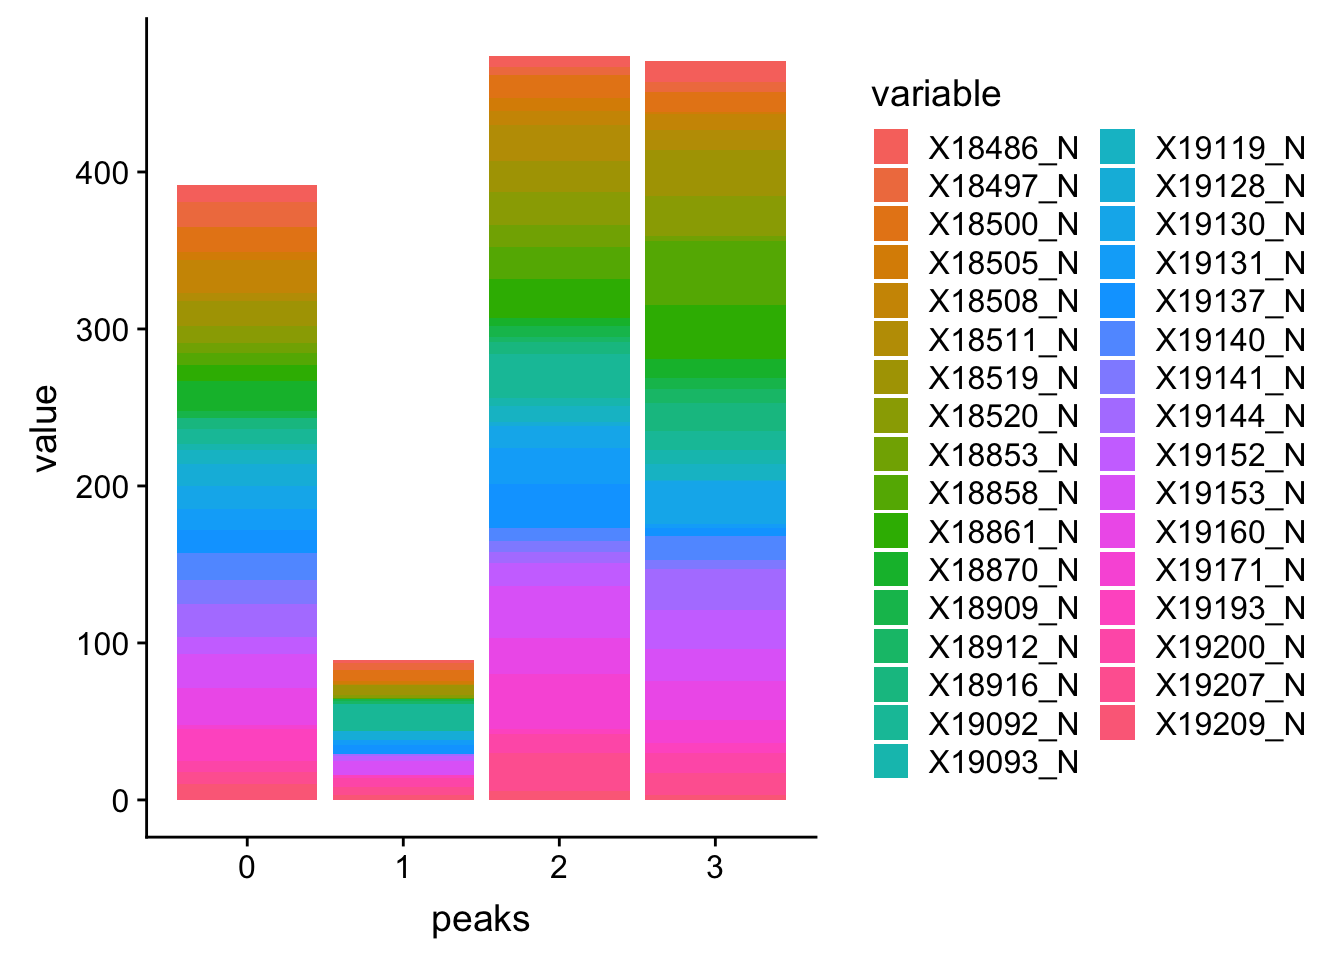
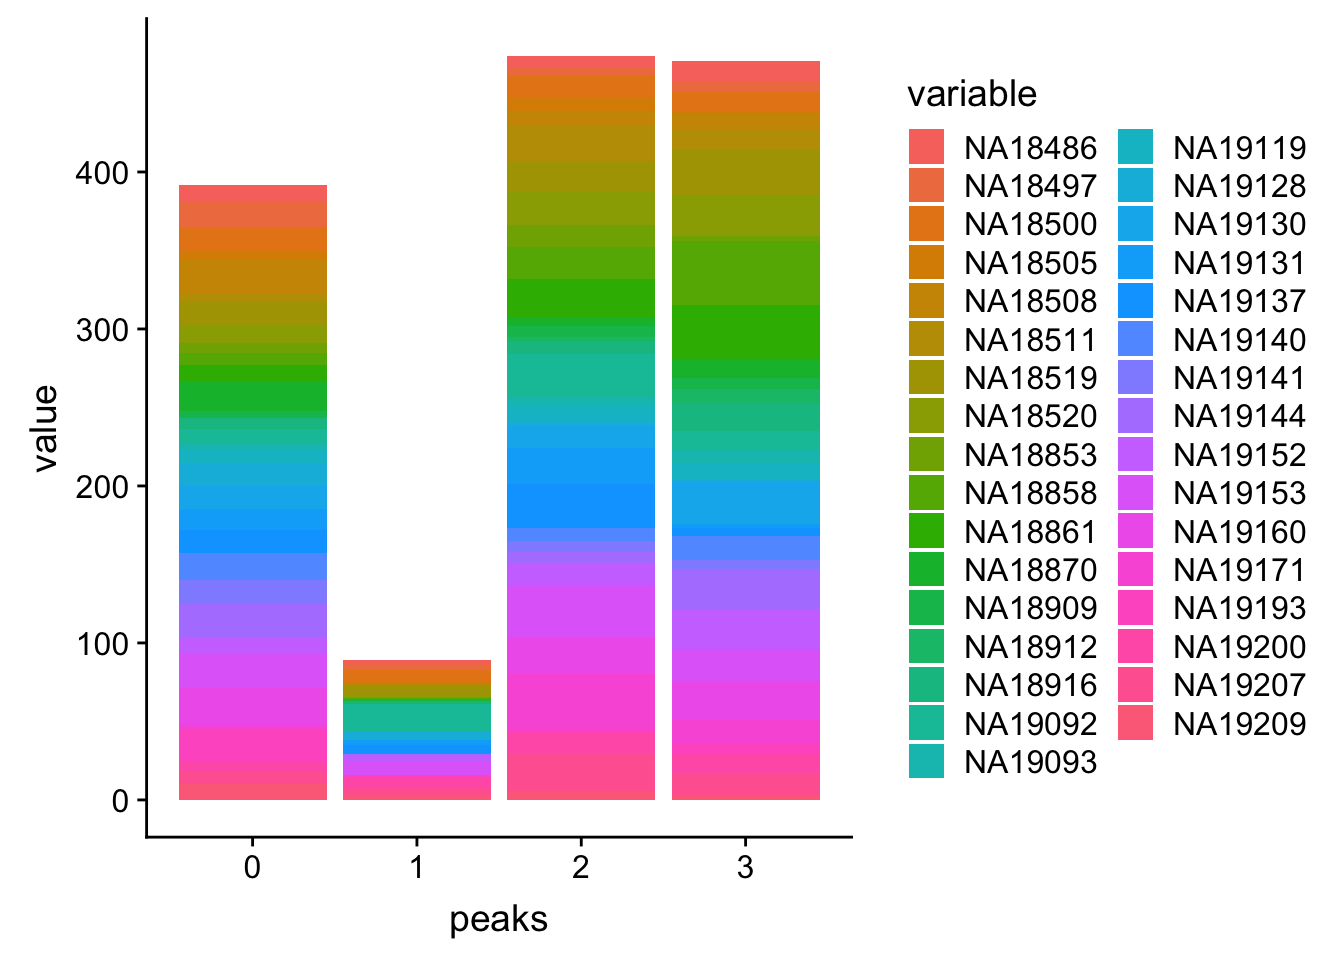
Build site.

diff --git a/docs/peakGeneCovEx.html b/docs/peakGeneCovEx.html
@@ -323,7 +323,7 @@ div.section {
 </div>
 
 
-<p><strong>Last updated:</strong> 2018-11-13</p>
+<p><strong>Last updated:</strong> 2018-11-14</p>
 <strong>workflowr checks:</strong> <small>(Click a bullet for more information)</small>
 <ul>
 <li>
@@ -347,13 +347,14 @@ div.section {
 </details>
 </li>
 <li>
-<p><details> <summary> <strong style="color:blue;">✔</strong> <strong>Repository version:</strong> <a href="https://github.com/brimittleman/threeprimeseq/tree/42991264aeb6f5c4095a40de261e9911fcf125a0" target="_blank">4299126</a> </summary></p>
+<p><details> <summary> <strong style="color:blue;">✔</strong> <strong>Repository version:</strong> <a href="https://github.com/brimittleman/threeprimeseq/tree/acc74e7fc3a97b1f103febe1503c47a4a7d65402" target="_blank">acc74e7</a> </summary></p>
 Great! You are using Git for version control. Tracking code development and connecting the code version to the results is critical for reproducibility. The version displayed above was the version of the Git repository at the time these results were generated. <br><br> Note that you need to be careful to ensure that all relevant files for the analysis have been committed to Git prior to generating the results (you can use <code>wflow_publish</code> or <code>wflow_git_commit</code>). workflowr only checks the R Markdown file, but you know if there are other scripts or data files that it depends on. Below is the status of the Git repository when the results were generated:
 <pre><code>
 Ignored files:
     Ignored:    .DS_Store
     Ignored:    .Rhistory
     Ignored:    .Rproj.user/
+    Ignored:    analysis/figure/
     Ignored:    data/.DS_Store
     Ignored:    output/.DS_Store
 
@@ -426,6 +427,7 @@ Untracked files:
 Unstaged changes:
     Modified:   analysis/28ind.peak.explore.Rmd
     Modified:   analysis/39indQC.Rmd
+    Modified:   analysis/chromHmm_enrichment.Rmd
     Modified:   analysis/cleanupdtseq.internalpriming.Rmd
     Modified:   analysis/coloc_apaQTLs_protQTLs.Rmd
     Modified:   analysis/dif.iso.usage.leafcutter.Rmd
@@ -467,6 +469,40 @@ Message
 </tr>
 </thead>
 <tbody>
+<tr>
+<td style="text-align:left;">
+Rmd
+</td>
+<td style="text-align:left;">
+<a href="https://github.com/brimittleman/threeprimeseq/blob/acc74e7fc3a97b1f103febe1503c47a4a7d65402/analysis/peakGeneCovEx.Rmd" target="_blank">acc74e7</a>
+</td>
+<td style="text-align:left;">
+Briana Mittleman
+</td>
+<td style="text-align:left;">
+2018-11-14
+</td>
+<td style="text-align:left;">
+add example by genotype plots
+</td>
+</tr>
+<tr>
+<td style="text-align:left;">
+html
+</td>
+<td style="text-align:left;">
+<a href="https://cdn.rawgit.com/brimittleman/threeprimeseq/d254fd2658506a41fe9d2afe08d945f4d0e3fab8/docs/peakGeneCovEx.html" target="_blank">d254fd2</a>
+</td>
+<td style="text-align:left;">
+Briana Mittleman
+</td>
+<td style="text-align:left;">
+2018-11-13
+</td>
+<td style="text-align:left;">
+Build site.
+</td>
+</tr>
 <tr>
 <td style="text-align:left;">
 Rmd
@@ -616,10 +652,10 @@ Attaching package: &#39;cowplot&#39;</code></pre>
 <pre><code>The following object is masked from &#39;package:ggplot2&#39;:
 
     ggsave</code></pre>
-<pre class="r"><code>nuc_names=c(&#39;Geneid&#39;,   &#39;Chr&#39;,  &#39;Start&#39;,    &#39;End&#39;,  &#39;Strand&#39;,   &#39;Length&#39;,   &#39;18486_N&#39;   ,&#39;18497_N&#39;, &#39;18500_N&#39;   ,&#39;18505_N&#39;, &#39;18508_N&#39;   ,&#39;18511_N&#39;, &#39;18519_N&#39;,  &#39;18520_N&#39;,  &#39;18853_N&#39;   ,&#39;18858_N&#39;, &#39;18861_N&#39;,  &#39;18870_N&#39;   ,&#39;18909_N&#39;  ,&#39;18912_N&#39;  ,&#39;18916_N&#39;, &#39;19092_N&#39;   ,&#39;19093_N&#39;, &#39;19119_N&#39;,  &#39;19128_N&#39;   ,&#39;19130_N&#39;, &#39;19131_N&#39;   ,&#39;19137_N&#39;, &#39;19140_N&#39;,  &#39;19141_N&#39;   ,&#39;19144_N&#39;, &#39;19152_N&#39;   ,&#39;19153_N&#39;, &#39;19160_N&#39;   ,&#39;19171_N&#39;, &#39;19193_N&#39;   ,&#39;19200_N&#39;, &#39;19207_N&#39;,  &#39;19209_N&#39;,  &#39;19210_N&#39;,  &#39;19223_N&#39;   ,&#39;19225_N&#39;, &#39;19238_N&#39;   ,&#39;19239_N&#39;, &#39;19257_N&#39;)
+<pre class="r"><code>nuc_names=c(&#39;Geneid&#39;,   &#39;Chr&#39;,  &#39;Start&#39;,    &#39;End&#39;,  &#39;Strand&#39;,   &#39;Length&#39;,   &#39;NA18486&#39;   ,&#39;NA18497&#39;, &#39;NA18500&#39;   ,&#39;NA18505&#39;, &#39;NA18508&#39;   ,&#39;NA18511&#39;, &#39;NA18519&#39;,  &#39;NA18520&#39;,  &#39;NA18853&#39;,&#39;NA18858&#39;,    &#39;NA18861&#39;,  &#39;NA18870&#39;   ,&#39;NA18909&#39;  ,&#39;NA18912&#39;  ,&#39;NA18916&#39;, &#39;NA19092&#39;   ,&#39;NA19093&#39;, &#39;NA19119&#39;,  &#39;NA19128&#39;   ,&#39;NA19130&#39;, &#39;NA19131&#39;   ,&#39;NA19137&#39;, &#39;NA19140&#39;,  &#39;NA19141&#39;   ,&#39;NA19144&#39;, &#39;NA19152&#39;   ,&#39;NA19153&#39;, &#39;NA19160&#39;   ,&#39;NA19171&#39;, &#39;NA19193&#39;   ,&#39;NA19200&#39;, &#39;NA19207&#39;,  &#39;NA19209&#39;,  &#39;NA19210&#39;,  &#39;NA19223&#39;   ,&#39;NA19225&#39;, &#39;NA19238&#39;   ,&#39;NA19239&#39;, &#39;NA19257&#39;)
 
 
-tot_names=c(&#39;Geneid&#39;,   &#39;Chr&#39;   ,&#39;Start&#39;,   &#39;End&#39;,  &#39;Strand&#39;,   &#39;Length&#39;,   &#39;18486_T&#39;,  &#39;18497_T&#39;   ,&#39;18500_T&#39;,&#39;18505_T&#39;,   &#39;18508_T&#39;   ,&#39;18511_T&#39;, &#39;18519_T&#39;,  &#39;18520_T&#39;,  &#39;18853_T&#39;,  &#39;18858_T&#39;,  &#39;18861_T&#39;,  &#39;18870_T&#39;,  &#39;18909_T&#39;   ,&#39;18912_T&#39;, &#39;18916_T&#39;,  &#39;19092_T&#39;   ,&#39;19093_T&#39;, &#39;19119_T&#39;,  &#39;19128_T&#39;,  &#39;19130_T&#39;,  &#39;19131_T&#39;   ,&#39;19137_T&#39;, &#39;19140_T&#39;   ,&#39;19141_T&#39;, &#39;19144_T&#39;,  &#39;19152_T&#39;   ,&#39;19153_T&#39;, &#39;19160_T&#39;   ,&#39;19171_T&#39;, &#39;19193_T&#39;,  &#39;19200_T&#39;,  &#39;19207_T&#39;   ,&#39;19209_T&#39;  ,&#39;19210_T&#39;, &#39;19223_T&#39;,  &#39;19225_T&#39;,  &#39;19238_T&#39;,  &#39;19239_T&#39;,  &#39;19257_T&#39;)</code></pre>
+tot_names=c(&#39;Geneid&#39;,   &#39;Chr&#39;,  &#39;Start&#39;,    &#39;End&#39;,  &#39;Strand&#39;,   &#39;Length&#39;,   &#39;NA18486&#39;   ,&#39;NA18497&#39;, &#39;NA18500&#39;   ,&#39;NA18505&#39;, &#39;NA18508&#39;   ,&#39;NA18511&#39;, &#39;NA18519&#39;,  &#39;NA18520&#39;,  &#39;NA18853&#39;,&#39;NA18858&#39;,    &#39;NA18861&#39;,  &#39;NA18870&#39;   ,&#39;NA18909&#39;  ,&#39;NA18912&#39;  ,&#39;NA18916&#39;, &#39;NA19092&#39;   ,&#39;NA19093&#39;, &#39;NA19119&#39;,  &#39;NA19128&#39;   ,&#39;NA19130&#39;, &#39;NA19131&#39;   ,&#39;NA19137&#39;, &#39;NA19140&#39;,  &#39;NA19141&#39;   ,&#39;NA19144&#39;, &#39;NA19152&#39;   ,&#39;NA19153&#39;, &#39;NA19160&#39;   ,&#39;NA19171&#39;, &#39;NA19193&#39;   ,&#39;NA19200&#39;, &#39;NA19207&#39;,  &#39;NA19209&#39;,  &#39;NA19210&#39;,  &#39;NA19223&#39;   ,&#39;NA19225&#39;, &#39;NA19238&#39;   ,&#39;NA19239&#39;, &#39;NA19257&#39;)</code></pre>
 <pre class="r"><code>NuclearAPA=read.table(&quot;../data/perm_QTL_trans/filtered_APApeaks_merged_allchrom_refseqGenes_pheno_Nuclear_transcript_permResBH.txt&quot;, stringsAsFactors = F, header=T)  %&gt;% mutate(sig=ifelse(-log10(bh)&gt;=1, 1,0 )) %&gt;%  separate(pid, sep = &quot;:&quot;, into=c(&quot;chr&quot;, &quot;start&quot;, &quot;end&quot;, &quot;id&quot;)) %&gt;% separate(id, sep = &quot;_&quot;, into=c(&quot;gene&quot;, &quot;strand&quot;, &quot;peak&quot;)) %&gt;% filter(sig==1)
 totalAPA=read.table(&quot;../data/perm_QTL_trans/filtered_APApeaks_merged_allchrom_refseqGenes_pheno_Total_transcript_permResBH.txt&quot;, stringsAsFactors = F, header=T)  %&gt;% mutate(sig=ifelse(-log10(bh)&gt;=1, 1,0 )) %&gt;%  separate(pid, sep = &quot;:&quot;, into=c(&quot;chr&quot;, &quot;start&quot;, &quot;end&quot;, &quot;id&quot;)) %&gt;% separate(id, sep = &quot;_&quot;, into=c(&quot;gene&quot;, &quot;strand&quot;, &quot;peak&quot;)) %&gt;% filter(sig==1)</code></pre>
 <p>examples to look at Nuclear: IRF5, HSF1, NOL9,DCAF16,</p>
@@ -655,7 +691,7 @@ grep DGCR14 /project2/gilad/briana/threeprimeseq/data/filtPeakOppstrand_cov/filt
 <p>Files are in /Users/bmittleman1/Documents/Gilad_lab/threeprimeseq/data/example_gene_peakQuant</p>
 <p>Start wit a small file.</p>
 <pre class="r"><code>pos=c(3,4,7:39)
-PPP4c=read.table(&quot;../data/example_gene_peakQuant/PPP4C_NuclearCov_peaks.txt&quot;, stringsAsFactors = F, col.names = nuc_names) %&gt;% select(pos)
+PPP4c=read.table(&quot;../data/example_gene_peakQuant/PPP4C_NuclearCov_peaks.txt&quot;, stringsAsFactors = F, col.names = nuc_names) %&gt;% select(pos) 
 
 PPP4c$peaks=seq(0, (nrow(PPP4c)-1))
 
@@ -1259,6 +1295,36 @@ Briana Mittleman
 <pre><code>Warning: Ignoring unknown parameters: binwidth, bins, pad</code></pre>
 <pre class="r"><code>plot_grid(NBEAL2_loc,NBEAL2_num)</code></pre>
 <p><img src="figure/peakGeneCovEx.Rmd/unnamed-chunk-25-1.png" width="672" style="display: block; margin: auto;" /></p>
+<details> <summary><em>Expand here to see past versions of unnamed-chunk-25-1.png:</em></summary>
+<table style="border-collapse:separate; border-spacing:5px;">
+<thead>
+<tr>
+<th style="text-align:left;">
+Version
+</th>
+<th style="text-align:left;">
+Author
+</th>
+<th style="text-align:left;">
+Date
+</th>
+</tr>
+</thead>
+<tbody>
+<tr>
+<td style="text-align:left;">
+<a href="https://github.com/brimittleman/threeprimeseq/blob/d254fd2658506a41fe9d2afe08d945f4d0e3fab8/docs/figure/peakGeneCovEx.Rmd/unnamed-chunk-25-1.png" target="_blank">d254fd2</a>
+</td>
+<td style="text-align:left;">
+Briana Mittleman
+</td>
+<td style="text-align:left;">
+2018-11-13
+</td>
+</tr>
+</tbody>
+</table>
+<p></details></p>
 <div id="which-peak-is-sig" class="section level2">
 <h2>Which Peak is Sig</h2>
 <p>It would be interesting to know which peak in these gene plots is associated with the QTL.</p>
@@ -1306,8 +1372,59 @@ Briana Mittleman
 <h2>Seperate by genotype</h2>
 <p>It would be good to look at these seperated by genotype.</p>
 <ul>
-<li>IRF5 : peak305794-7:128635754, peak305795,128681297, peak305798-7:128661132</li>
+<li>IRF5 : peak305794-7:128635754, peak305795,7:128681297, peak305798-7:128661132</li>
 </ul>
+<pre class="r"><code>geno_names=c(&#39;CHROM&#39;, &#39;POS&#39;, &#39;snpID&#39;, &#39;REF&#39;, &#39;ALT&#39;, &#39;QUAL&#39;, &#39;FILTER&#39;, &#39;INFO&#39;, &#39;FORMAT&#39;, &#39;NA18486&#39;, &#39;NA18487&#39;, &#39;NA18488&#39;, &#39;NA18489&#39;, &#39;NA18498&#39;, &#39;NA18499&#39;, &#39;NA18501&#39;, &#39;NA18502&#39;, &#39;NA18504&#39;, &#39;NA18505&#39;, &#39;NA18507&#39;, &#39;NA18508&#39;, &#39;NA18510&#39;, &#39;NA18511&#39;, &#39;NA18516&#39;, &#39;NA18517&#39;, &#39;NA18519&#39;, &#39;NA18520&#39;, &#39;NA18522&#39;, &#39;NA18523&#39;, &#39;NA18852&#39;, &#39;NA18853&#39;, &#39;NA18855&#39;, &#39;NA18856&#39;, &#39;NA18858&#39;, &#39;NA18859&#39;, &#39;NA18861&#39;, &#39;NA18862&#39;, &#39;NA18867&#39;, &#39;NA18868&#39;, &#39;NA18870&#39;, &#39;NA18871&#39;, &#39;NA18873&#39;, &#39;NA18874&#39;, &#39;NA18907&#39;, &#39;NA18909&#39;, &#39;NA18910&#39;, &#39;NA18912&#39;, &#39;NA18913&#39;, &#39;NA18916&#39;, &#39;NA18917&#39;, &#39;NA18923&#39;, &#39;NA18924&#39;, &#39;NA18933&#39;, &#39;NA18934&#39;, &#39;NA19093&#39;, &#39;NA19095&#39;, &#39;NA19096&#39;, &#39;NA19098&#39;, &#39;NA19099&#39;, &#39;NA19101&#39;, &#39;NA19102&#39;, &#39;NA19107&#39;, &#39;NA19108&#39;, &#39;NA19113&#39;, &#39;NA19114&#39;, &#39;NA19116&#39;, &#39;NA19117&#39;, &#39;NA19118&#39;, &#39;NA19119&#39;, &#39;NA19121&#39;, &#39;NA19122&#39;, &#39;NA19127&#39;, &#39;NA19128&#39;, &#39;NA19129&#39;, &#39;NA19130&#39;, &#39;NA19131&#39;, &#39;NA19137&#39;, &#39;NA19138&#39;, &#39;NA19140&#39;, &#39;NA19141&#39;, &#39;NA19143&#39;, &#39;NA19144&#39;, &#39;NA19146&#39;, &#39;NA19147&#39;, &#39;NA19149&#39;, &#39;NA19150&#39;, &#39;NA19152&#39;, &#39;NA19153&#39;, &#39;NA19159&#39;, &#39;NA19160&#39;, &#39;NA19171&#39;, &#39;NA19172&#39;, &#39;NA19175&#39;, &#39;NA19176&#39;, &#39;NA19184&#39;, &#39;NA19185&#39;, &#39;NA19189&#39;, &#39;NA19190&#39;, &#39;NA19197&#39;, &#39;NA19198&#39;, &#39;NA19200&#39;, &#39;NA19201&#39;, &#39;NA19203&#39;, &#39;NA19204&#39;, &#39;NA19206&#39;, &#39;NA19207&#39;, &#39;NA19209&#39;, &#39;NA19210&#39;, &#39;NA19213&#39;, &#39;NA19214&#39;, &#39;NA19222&#39;, &#39;NA19223&#39;, &#39;NA19225&#39;, &#39;NA19226&#39;, &#39;NA19235&#39;, &#39;NA19236&#39;, &#39;NA19238&#39;, &#39;NA19239&#39;, &#39;NA19247&#39;, &#39;NA19248&#39;, &#39;NA19256&#39;, &#39;NA19257&#39;)
+#the samples I ran the QTLs for
+samples=c(&#39;NA18486&#39;,&#39;NA18505&#39;,&#39;NA18508&#39;,&#39;NA18511&#39;,&#39;NA18519&#39;,&#39;NA18520&#39;,&#39;NA18853&#39;,&#39;NA18858&#39;,&#39;NA18861&#39;,&#39;NA18870&#39;,&#39;NA18909&#39;,&#39;NA18912&#39;,&#39;NA18916&#39;,&#39;NA19093&#39;,&#39;NA19119&#39;,&#39;NA19128&#39;,&#39;NA19130&#39;,&#39;NA19131&#39;,&#39;NA19137&#39;,&#39;NA19140&#39;,&#39;NA19141&#39;,&#39;NA19144&#39;,&#39;NA19152&#39;,&#39;NA19153&#39;,&#39;NA19160&#39;,&#39;NA19171&#39;,&#39;NA19200&#39;,&#39;NA19207&#39;,&#39;NA19209&#39;,&#39;NA19210&#39;,&#39;NA19223&#39;,&#39;NA19225&#39;,&#39;NA19238&#39;,&#39;NA19239&#39;,&#39;NA19257&#39;)</code></pre>
+<pre class="bash"><code>#grep the genotpe file results to /project2/gilad/briana/threeprimeseq/data/example_gene_peakQuant/
+grep 7:128635754 chr7.dose.filt.vcf &gt; /project2/gilad/briana/threeprimeseq/data/example_gene_peakQuant/Genotypes_7:128635754.txt
+grep 7:128681297 chr7.dose.filt.vcf &gt; /project2/gilad/briana/threeprimeseq/data/example_gene_peakQuant/Genotypes_7:128681297.txt
+grep 7:128661132 chr7.dose.filt.vcf &gt; /project2/gilad/briana/threeprimeseq/data/example_gene_peakQuant/Genotypes_7:128661132.txt</code></pre>
+<p>Transfer to computer:</p>
+<p>Make a function to take a file and format it the way I can use it.</p>
+<pre class="r"><code>#this gives me 35x1 data frame with the genotpes for each ind at this snp.  
+prepare_genotpes=function(file, genName=geno_names, samp=samples){
+  geno=read.table(file, col.names=genName, stringsAsFactors = F) %&gt;% select(one_of(samp))
+  geno_dose=apply(geno, 2, function(y)sapply(y, function(x)as.integer(strsplit(x,&quot;:&quot;)[[1]][[2]])))
+  geno_dose=as.data.frame(geno_dose) %&gt;% rownames_to_column(var=&quot;individual&quot;)
+  return(geno_dose)
+}
+
+chr7_128681297= prepare_genotpes(&quot;../data/example_gene_peakQuant/Genotypes_7:128681297.txt&quot;)</code></pre>
+<p>I want a dataframe that has individual, genotype, then all of the peaks. I also need to remove individuals not in that genotype file.</p>
+<pre class="r"><code>IRF5_pheno=IRF5_all%&gt;% select(one_of(samples))
+row.names(IRF5_pheno)=paste(&quot;IRF5_peak&quot;, seq(1,nrow(IRF5_all)),sep=&quot;_&quot;)
+
+IRF5_pheno= IRF5_pheno %&gt;% t
+IRF5_pheno= as.data.frame(IRF5_pheno) %&gt;% rownames_to_column(var=&quot;individual&quot;)
+IRF5_pheno_geno=IRF5_pheno %&gt;% inner_join(chr7_128681297, by=&quot;individual&quot;)
+IRF5_pheno_geno_melt= melt(IRF5_pheno_geno, id.vars=c(&quot;geno_dose&quot;, &quot;individual&quot;)) %&gt;% group_by(variable,geno_dose) %&gt;% summarise(mean=mean(value),sd=sd(value))
+
+IRF5_pheno_geno_melt$geno_dose=as.factor(IRF5_pheno_geno_melt$geno_dose)</code></pre>
+<pre class="r"><code>ggplot(IRF5_pheno_geno_melt,aes(x=variable, y=mean, by=geno_dose, fill=geno_dose)) + geom_bar(stat=&quot;identity&quot;) +theme(axis.text.x = element_text(angle = 90, hjust = 1)) + labs(y=&quot;Mean read count&quot;, x=&quot;Peak&quot;, title=&quot;IRF5 peaks by chr7:128681297 genotype&quot;) +  annotate(&quot;pointrange&quot;, x = 6, y = 750, ymin = 750, ymax = 750,
+  colour = &quot;black&quot;, size = 1.5)</code></pre>
+<p><img src="figure/peakGeneCovEx.Rmd/unnamed-chunk-38-1.png" width="672" style="display: block; margin: auto;" /></p>
+<p>Try this with a different gene.</p>
+<pre class="bash"><code>#grep the genotpe file results to /project2/gilad/briana/threeprimeseq/data/example_gene_peakQuant/
+grep 16:30482494 chr16.dose.filt.vcf &gt; /project2/gilad/briana/threeprimeseq/data/example_gene_peakQuant/Genotypes_16:30482494.txt
+</code></pre>
+<pre class="r"><code>chr16_30482494= prepare_genotpes(&quot;../data/example_gene_peakQuant/Genotypes_16:30482494.txt&quot;)
+
+
+pprc_pheno=pprc_all%&gt;% select(one_of(samples))
+row.names(pprc_pheno)=paste(&quot;PPRC_peak&quot;, seq(1,nrow(pprc_all)),sep=&quot;_&quot;)
+
+pprc_pheno= pprc_pheno %&gt;% t
+pprc_pheno= as.data.frame(pprc_pheno) %&gt;% rownames_to_column(var=&quot;individual&quot;)
+pprc_pheno_geno=pprc_pheno %&gt;% inner_join(chr16_30482494, by=&quot;individual&quot;)
+pprc_pheno_geno_melt= melt(pprc_pheno_geno, id.vars=c(&quot;geno_dose&quot;, &quot;individual&quot;)) %&gt;% group_by(variable,geno_dose) %&gt;% summarise(mean=mean(value),sd=sd(value))
+
+pprc_pheno_geno_melt$geno_dose=as.factor(pprc_pheno_geno_melt$geno_dose)</code></pre>
+<p>Plot</p>
+<pre class="r"><code>ggplot(pprc_pheno_geno_melt,aes(x=variable, y=mean, by=geno_dose, fill=geno_dose)) + geom_bar(stat=&quot;identity&quot;) +theme(axis.text.x = element_text(angle = 90, hjust = 1))+ labs(y=&quot;Mean read count&quot;, x=&quot;Peak&quot;, title=&quot;PPRC peaks by 16:30482494 genotype&quot;) +  annotate(&quot;pointrange&quot;, x = 2, y = 20, ymin = 20, ymax = 20,colour = &quot;black&quot;, size = .5)</code></pre>
+<p><img src="figure/peakGeneCovEx.Rmd/unnamed-chunk-41-1.png" width="672" style="display: block; margin: auto;" /></p>
+<p>I want to see if this looks similar when I use the normalized usage from leafcutter (what the QTLs actually ran on)</p>
 </div>
 <div id="session-information" class="section level2">
 <h2>Session information</h2>
